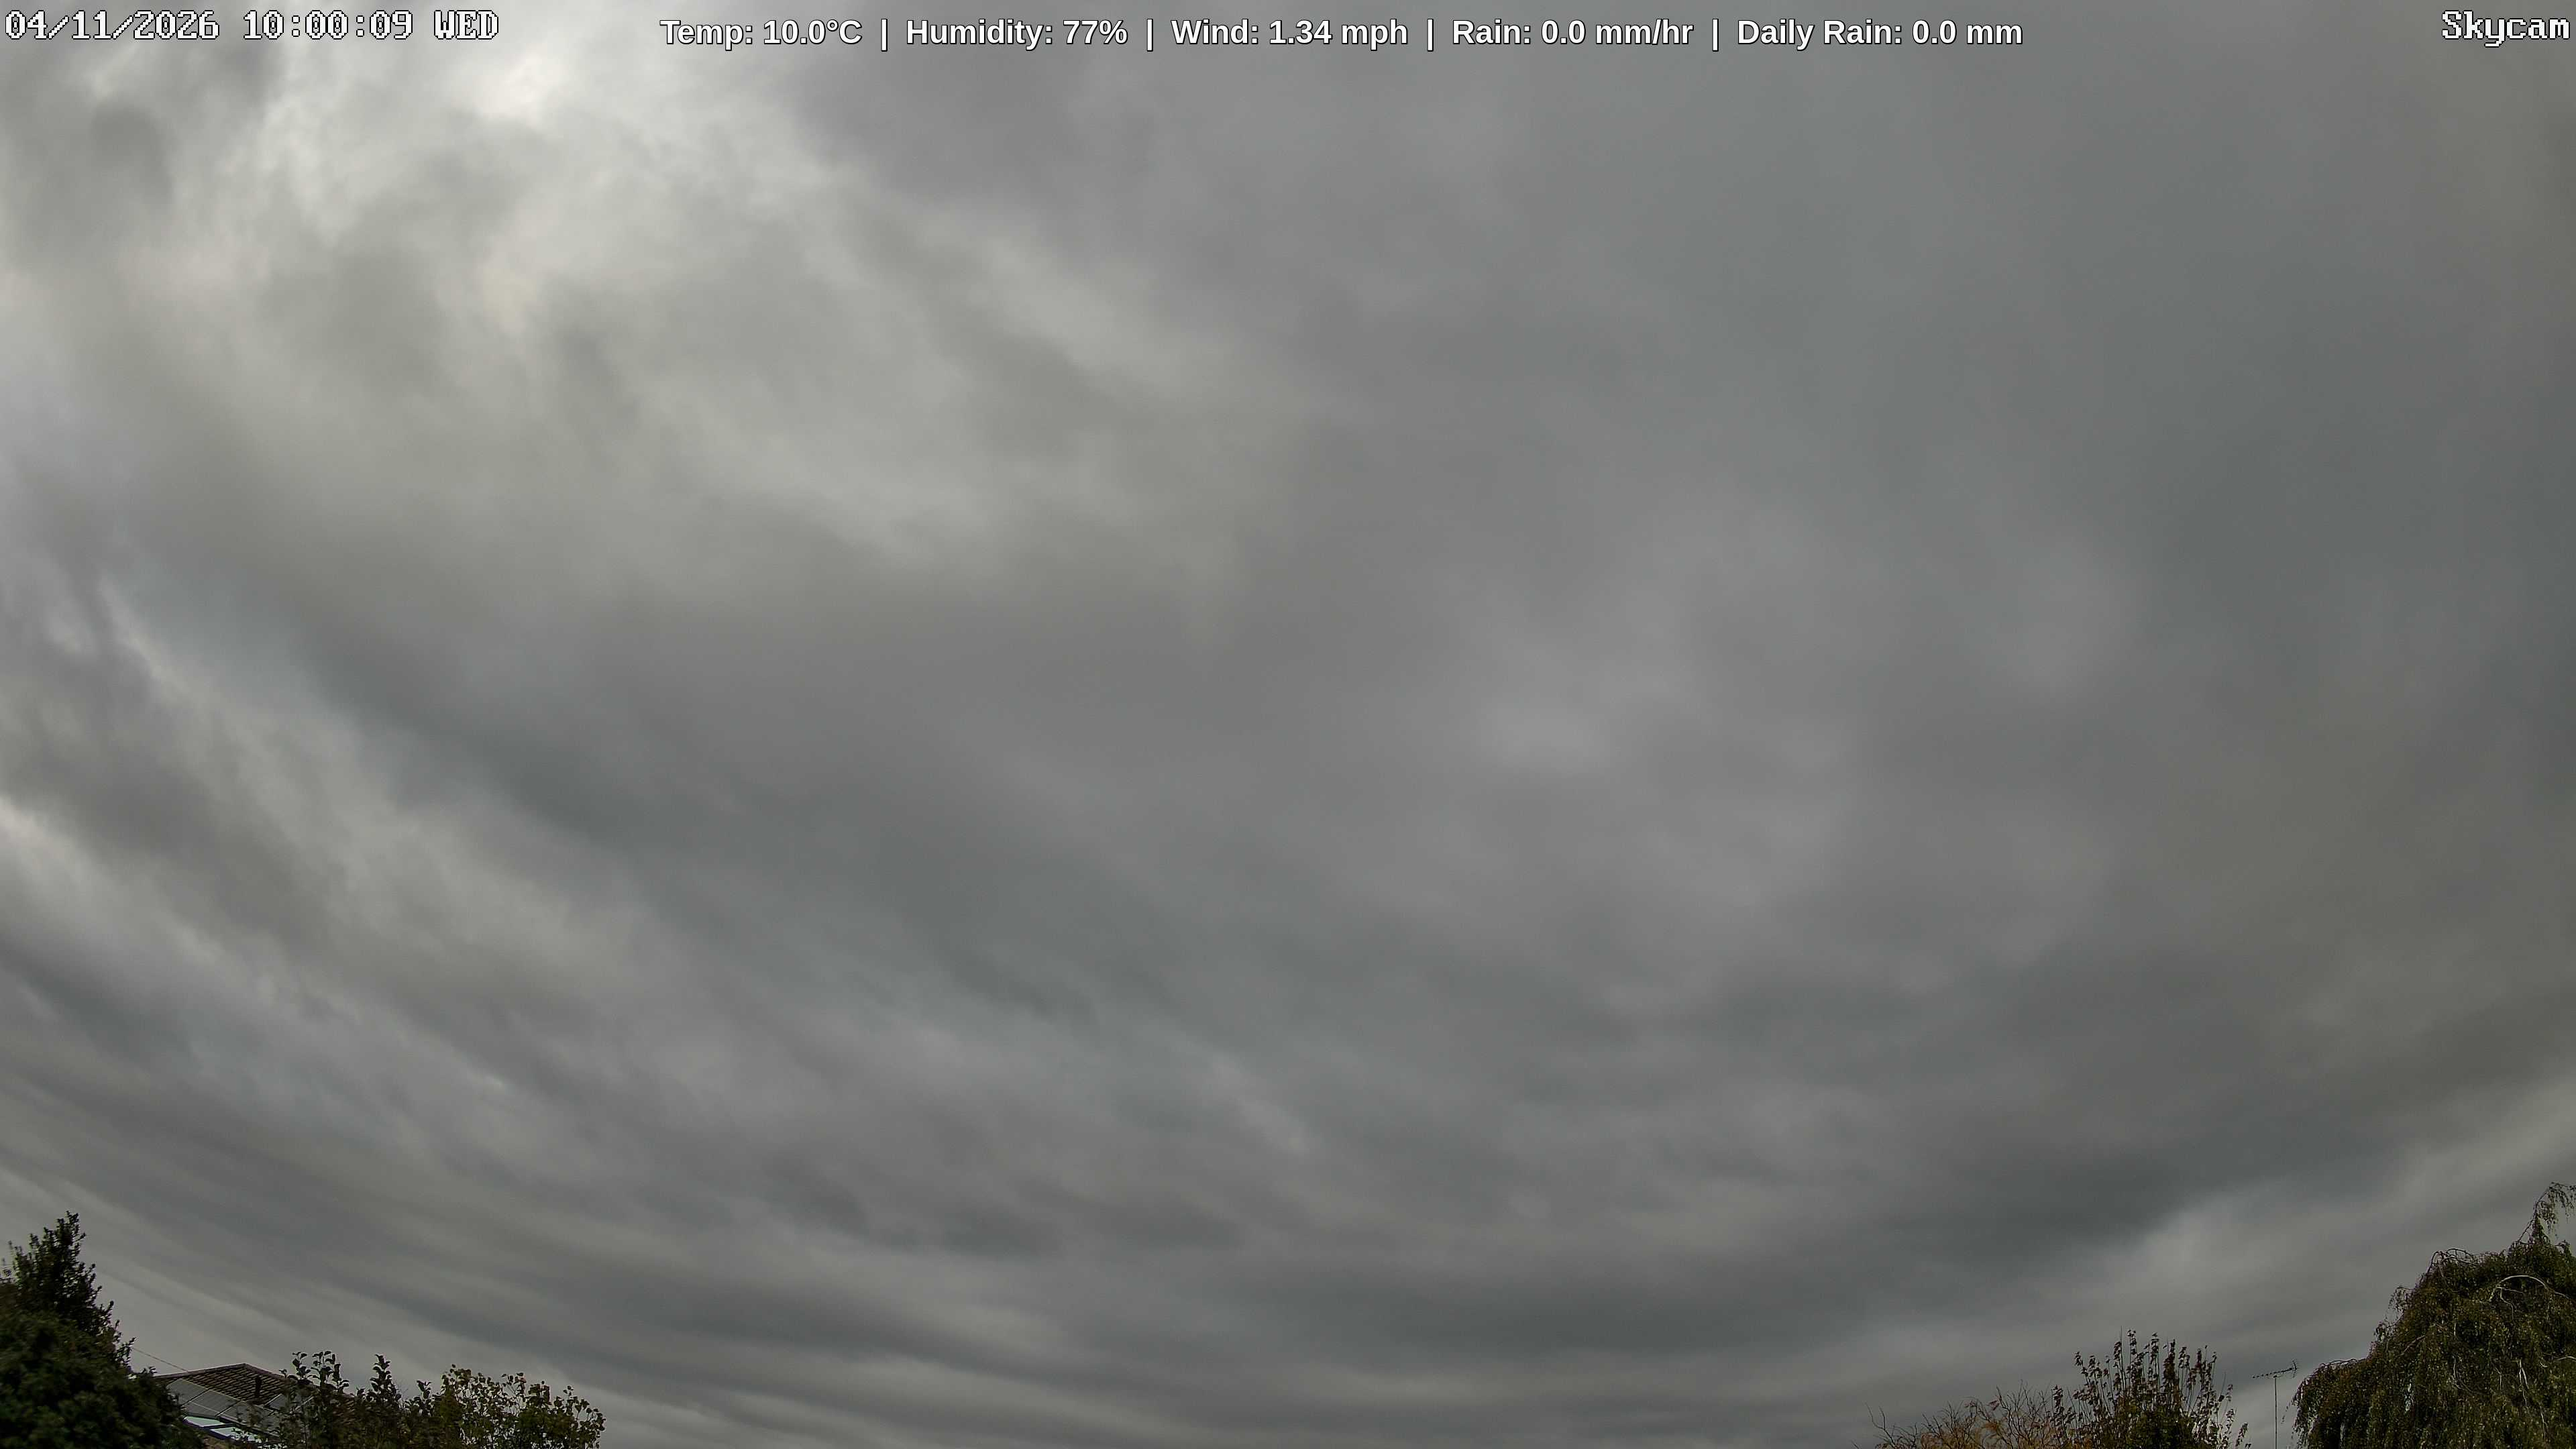
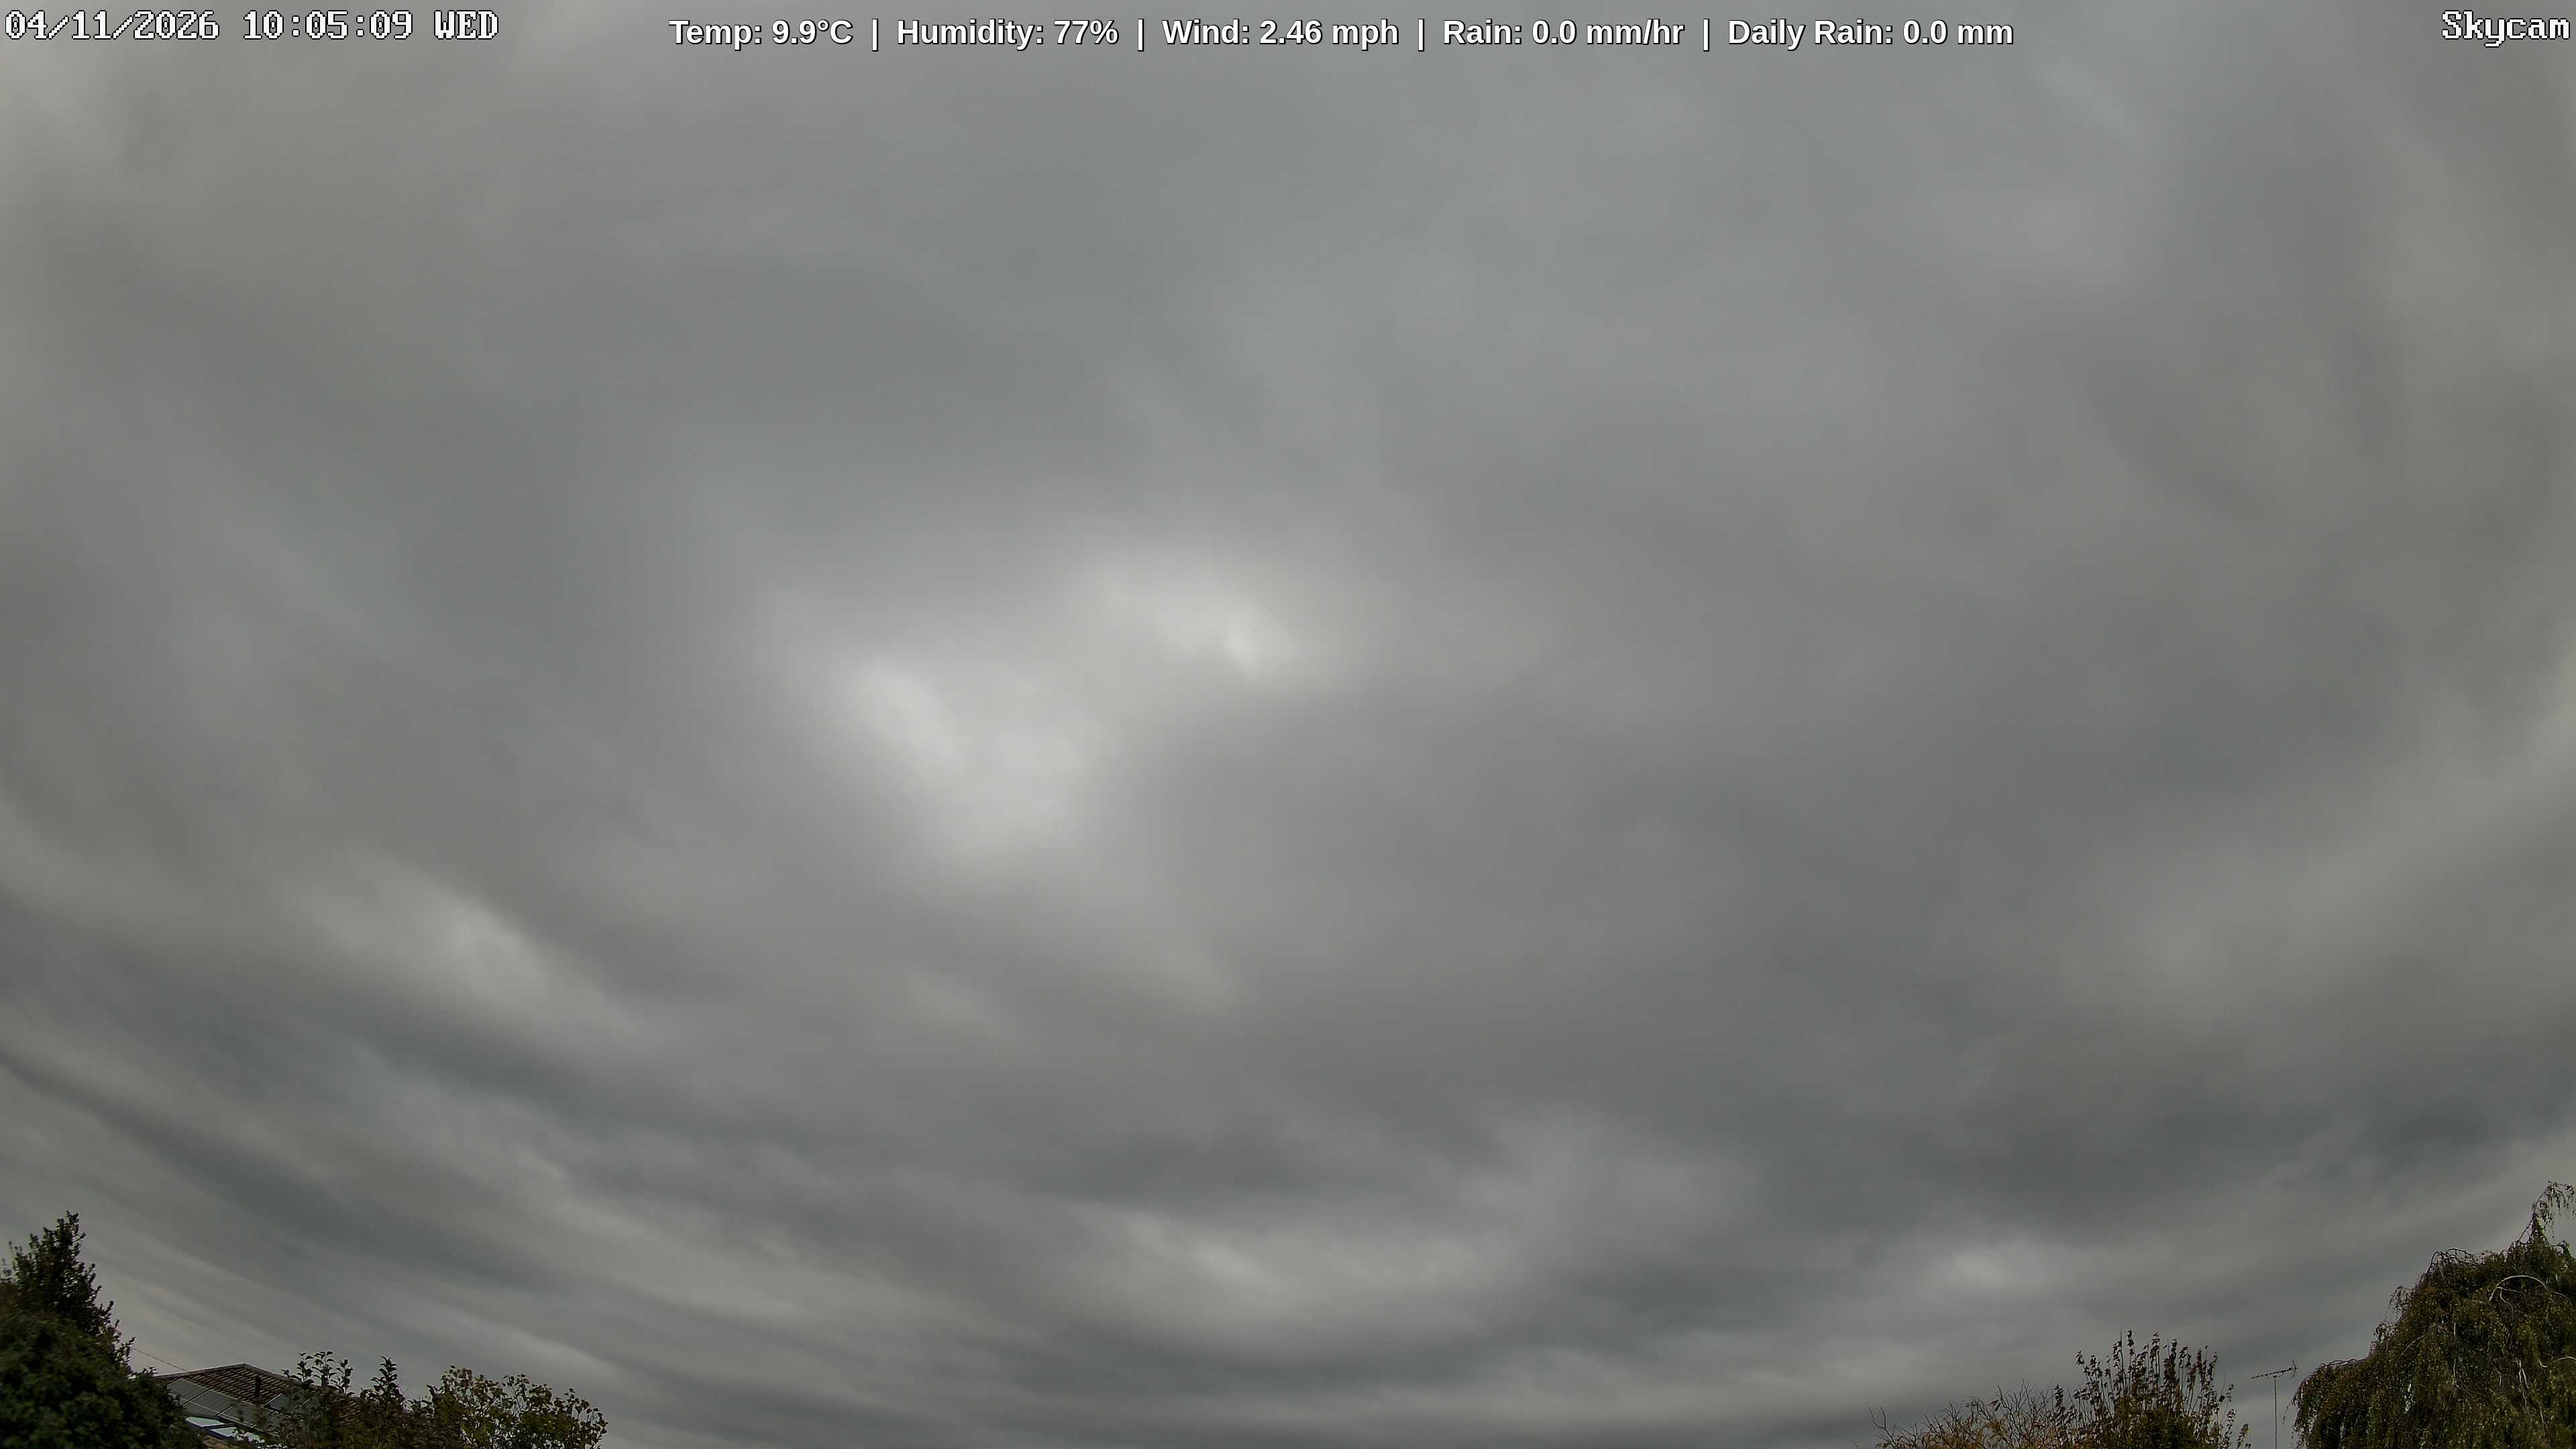
Update weather cam image with synchronized dual-layer weather metrics

diff --git a/index.html b/index.html
@@ -32,7 +32,7 @@
 </head>
 <body>
     <img id="weathercam" alt="Live Weather Snapshot">
-    <div class="banner">Temp: 10.0°C  |  Humidity: 77%  |  Wind: 1.34 mph  |  Rain: 0.0 mm/hr  |  Daily Rain: 0.0 mm</div>
+    <div class="banner">Temp: 9.9°C  |  Humidity: 77%  |  Wind: 2.46 mph  |  Rain: 0.0 mm/hr  |  Daily Rain: 0.0 mm</div>
 
     <script>
         // Shatter mobile cache engines by appending a live unique runtime timestamp 
